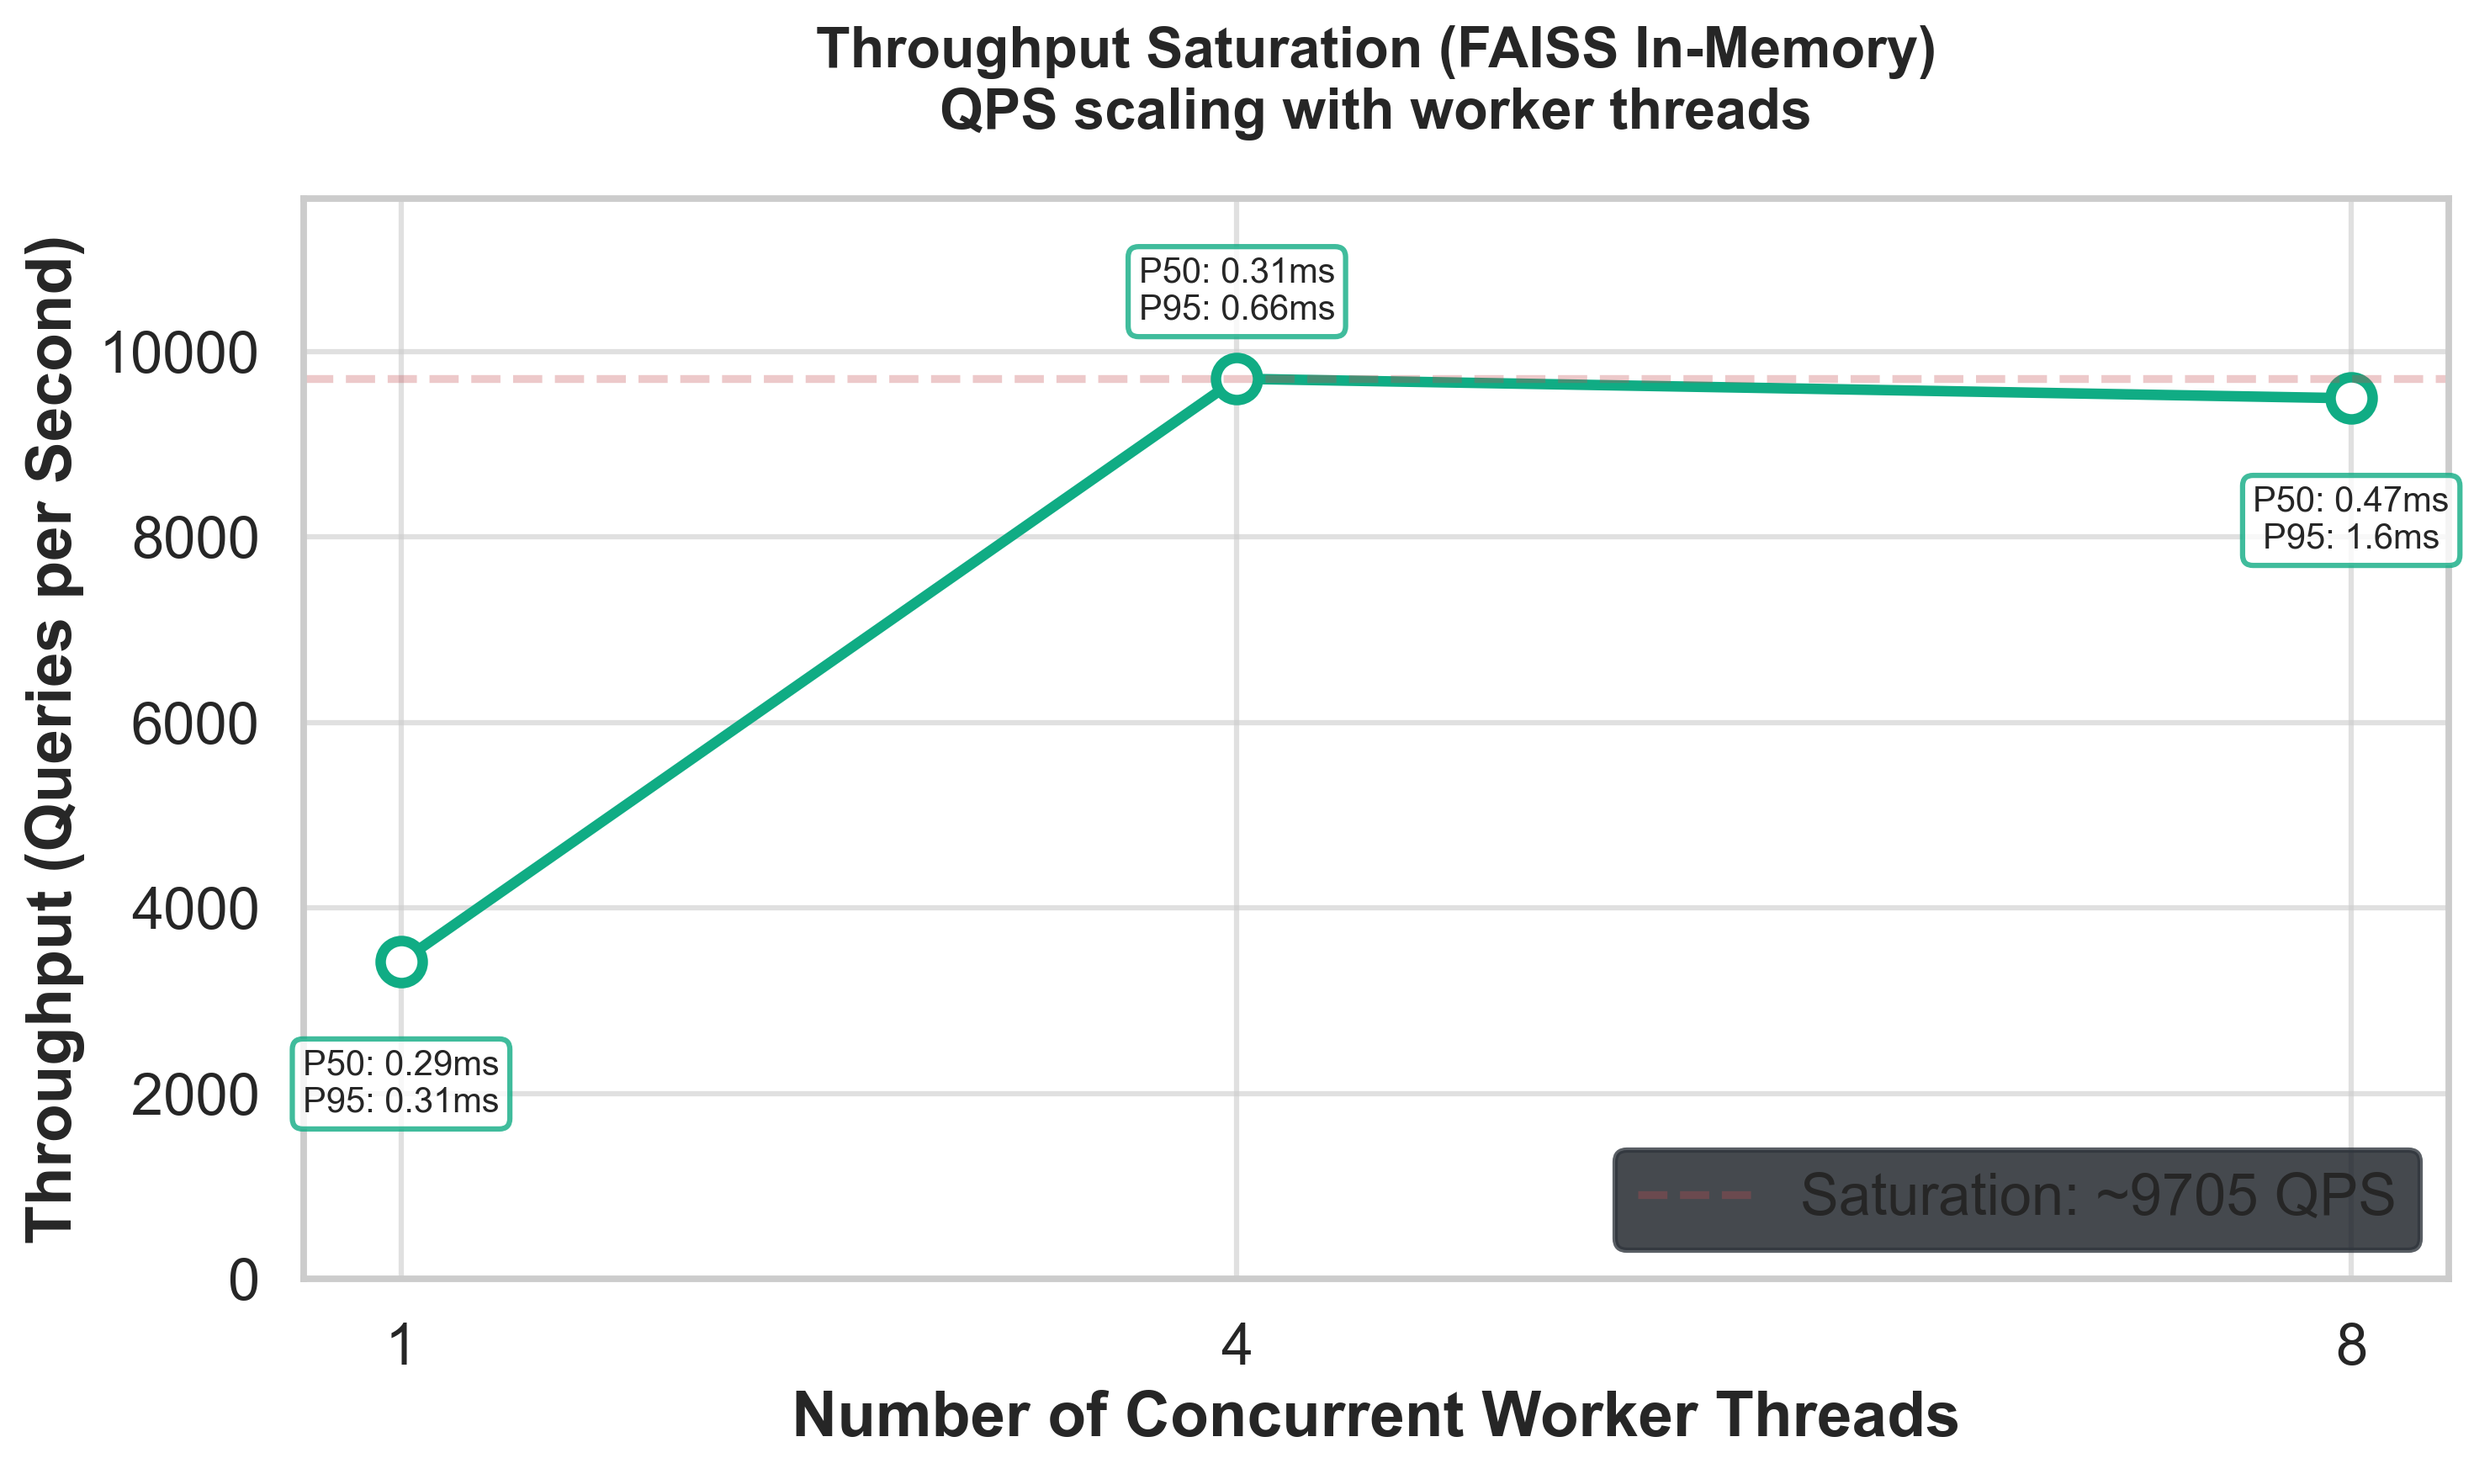
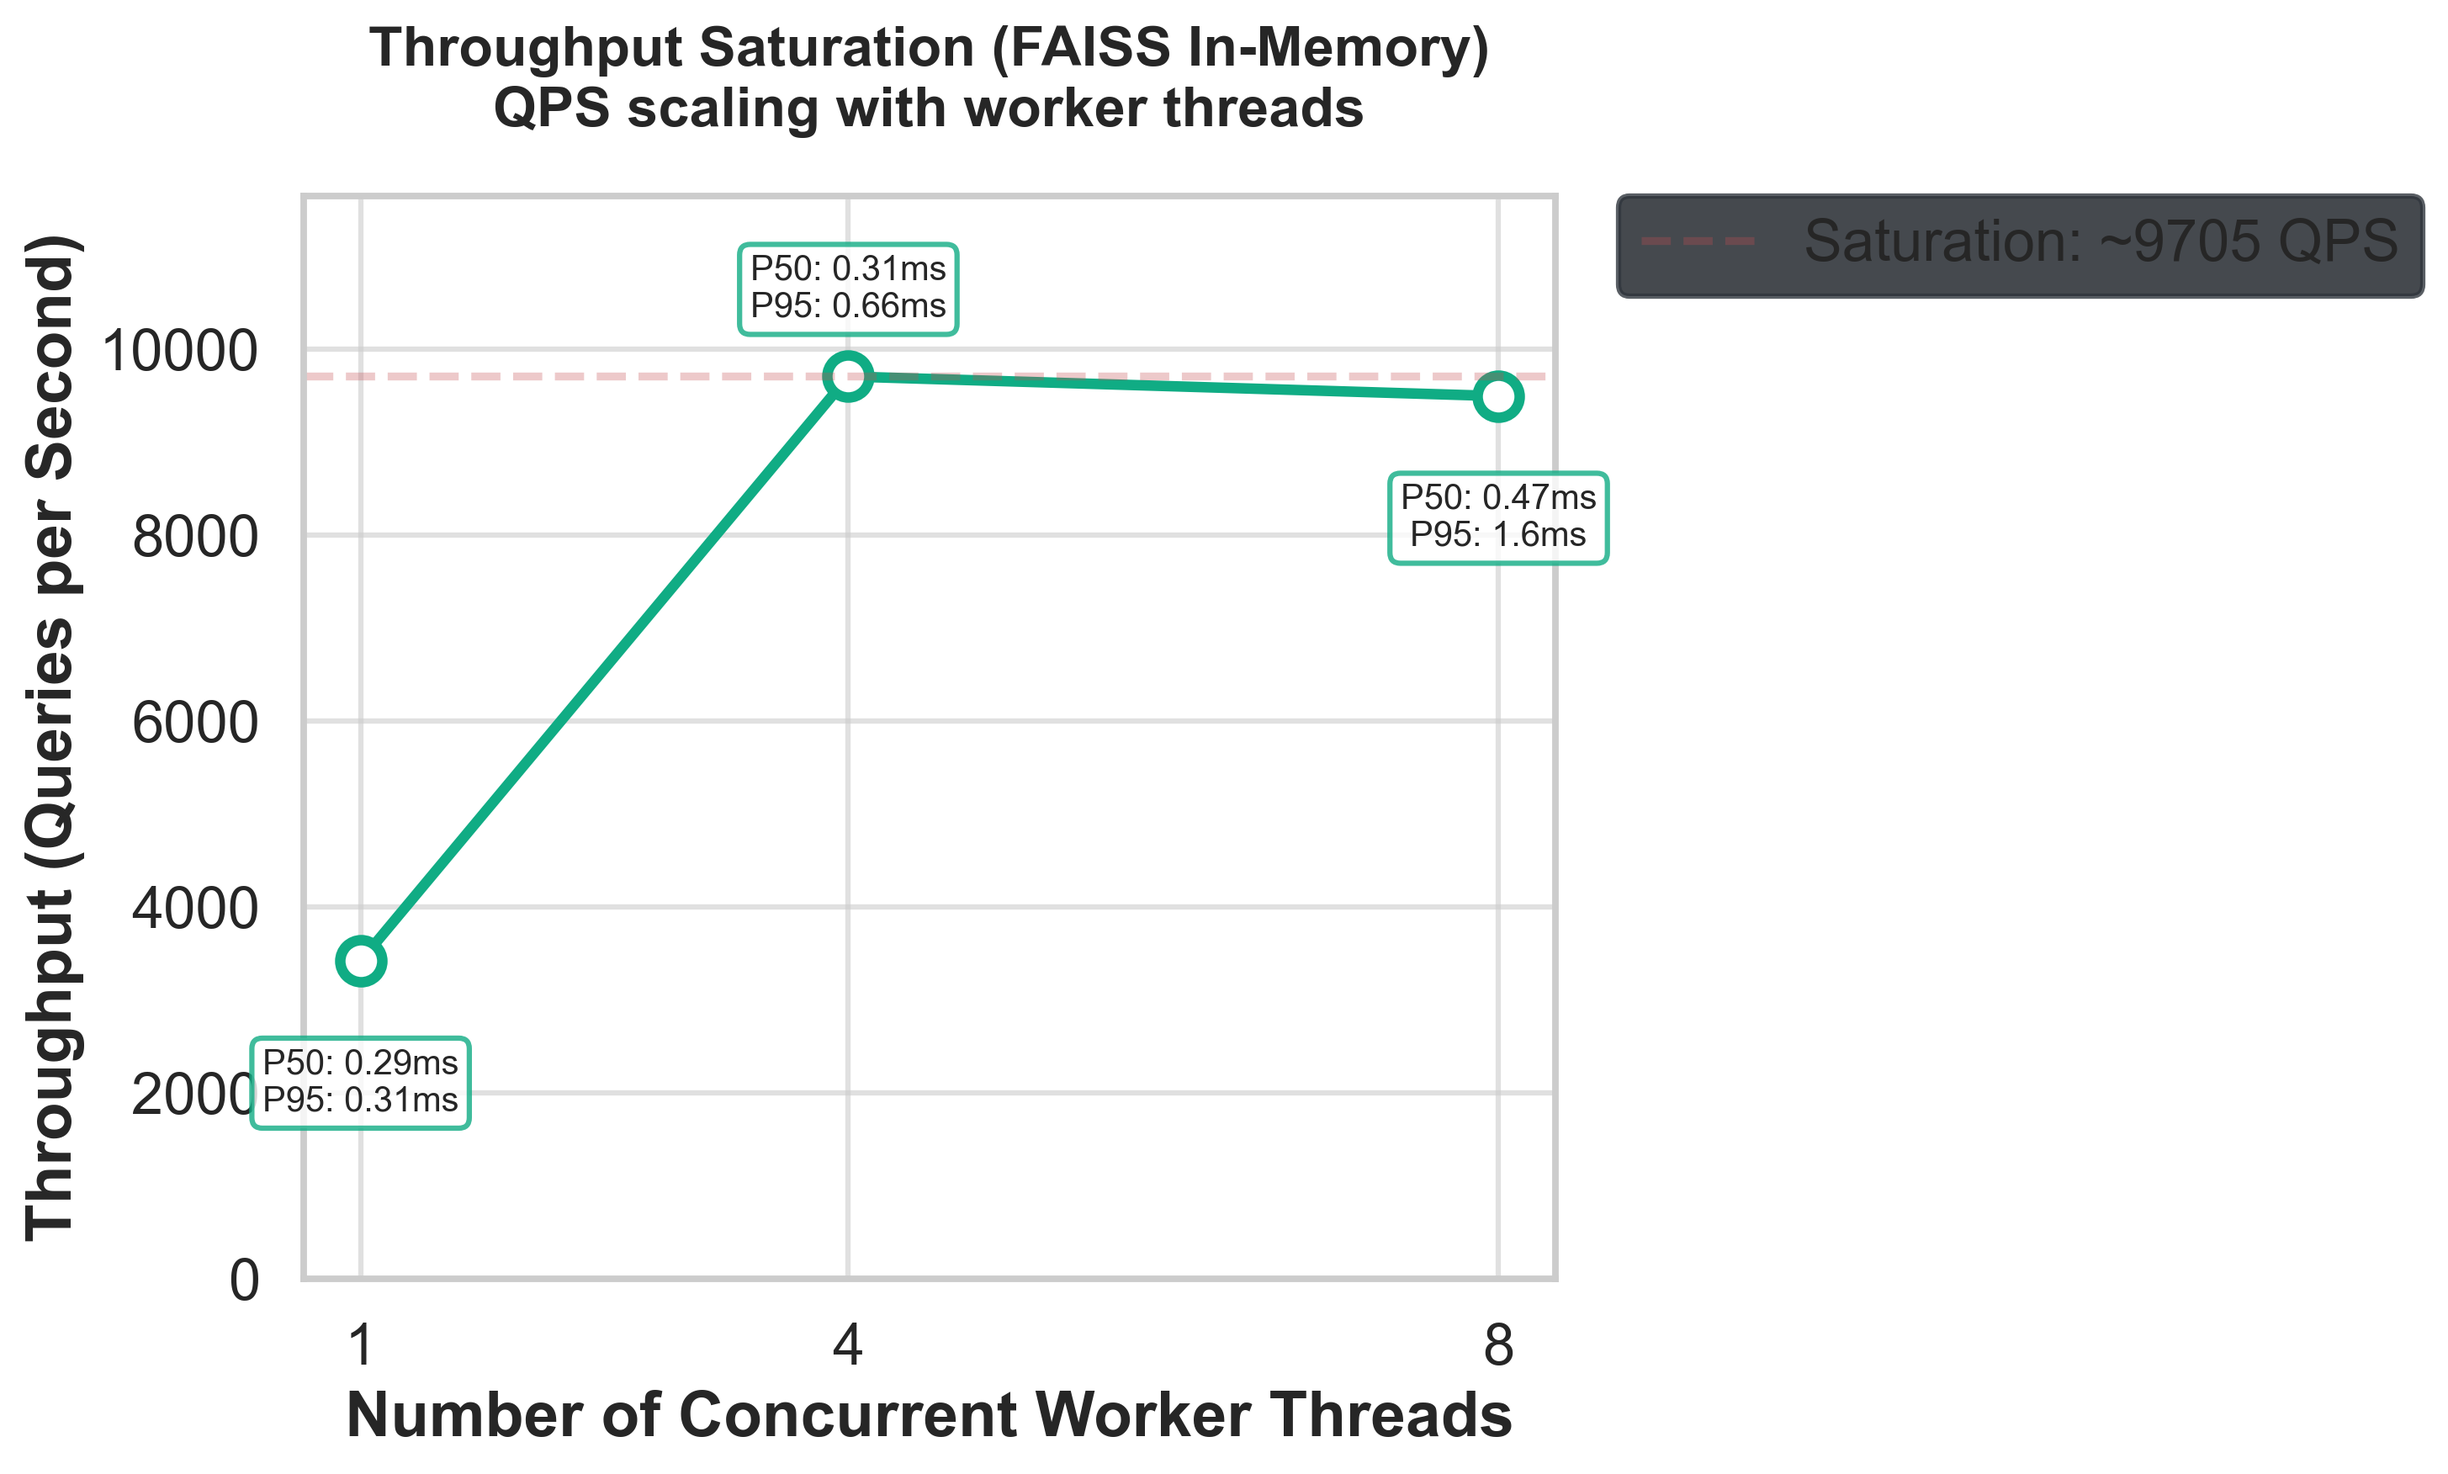
Fix chart legends clipping and add Elastic screenshot image tag

diff --git a/blog_draft_export.html b/blog_draft_export.html
@@ -487,9 +487,8 @@
     <h2>☁ Elasticsearch Cloud Playground</h2>
     <p>Building this architecture manually proved exactly why fully managed ecosystems exist.</p>
 
-    <div class="image-placeholder" style="background-color: #e8f4fd; border-color: #005A9C;">
-        [ 📸 ACTION REQUIRED: Insert real screenshot here ]
-    </div>
+    <img id="playground_screenshot" src="results/charts/elastic_screenshot.png" alt="Elastic Serverless Playground"
+        onerror="this.onerror=null; this.src='https://via.placeholder.com/800x400.png?text=Save+your+image+as+results/charts/elastic_screenshot.png'">
     <div class="caption">Figure: Elastic Serverless Playground validating hybrid retrieval.</div>
 
     <p>Validating hybrid queries took mere moments using the <strong>Elastic Serverless Playground</strong>. The

diff --git a/src/visualize.py b/src/visualize.py
@@ -158,7 +158,7 @@ def plot_latency_vs_scale():
     ax.set_xlabel("Dataset Size (passages)")
     ax.set_ylabel("P50 Latency (ms)")
     ax.set_title("Query Latency vs Dataset Scale")
-    ax.legend(loc="upper left")
+    ax.legend(bbox_to_anchor=(1.05, 1), loc="upper left", borderaxespad=0.)
     ax.grid(True, linestyle="--")
     ax.xaxis.set_major_formatter(ticker.FuncFormatter(lambda x, _: f"{int(x/1000)}k"))
 
@@ -197,7 +197,7 @@ def plot_pareto_frontier(advanced_data: dict):
     plt.title("HNSW Pareto Frontier at 100k Scale\nLatency vs Recall Tradeoff", pad=20, fontweight="bold")
     plt.xlabel("P50 Latency (ms)", fontweight="bold")
     plt.ylabel("Recall@10", fontweight="bold")
-    plt.legend(frameon=True, shadow=True, fancybox=True)
+    plt.legend(bbox_to_anchor=(1.05, 1), loc="upper left", borderaxespad=0., frameon=True, shadow=True, fancybox=True)
     plt.tight_layout()
     save_chart(fig, "pareto_frontier_qdrant")
 
@@ -234,7 +234,7 @@ def plot_recall_at_k(advanced_data: dict):
     plt.xticks(k_values, labels=[str(k) for k in k_values])
     plt.ylim(0.2, 1.05)
     plt.grid(True, which="both", ls="-", alpha=0.2)
-    plt.legend(loc="lower right", frameon=True, shadow=True, fancybox=True)
+    plt.legend(bbox_to_anchor=(1.05, 1), loc="upper left", borderaxespad=0., frameon=True, shadow=True, fancybox=True)
     
     plt.tight_layout()
     save_chart(fig, "recall_at_k_curves")
@@ -273,7 +273,7 @@ def plot_concurrency(advanced_data: dict):
     plt.ylim(0, max(qps) * 1.2)
     
     plt.axhline(y=max(qps), color='r', linestyle='--', alpha=0.3, label=f"Saturation: ~{int(max(qps))} QPS")
-    plt.legend(loc="lower right")
+    plt.legend(bbox_to_anchor=(1.05, 1), loc="upper left", borderaxespad=0.)
     
     plt.tight_layout()
     save_chart(fig, "concurrency_scaling")
